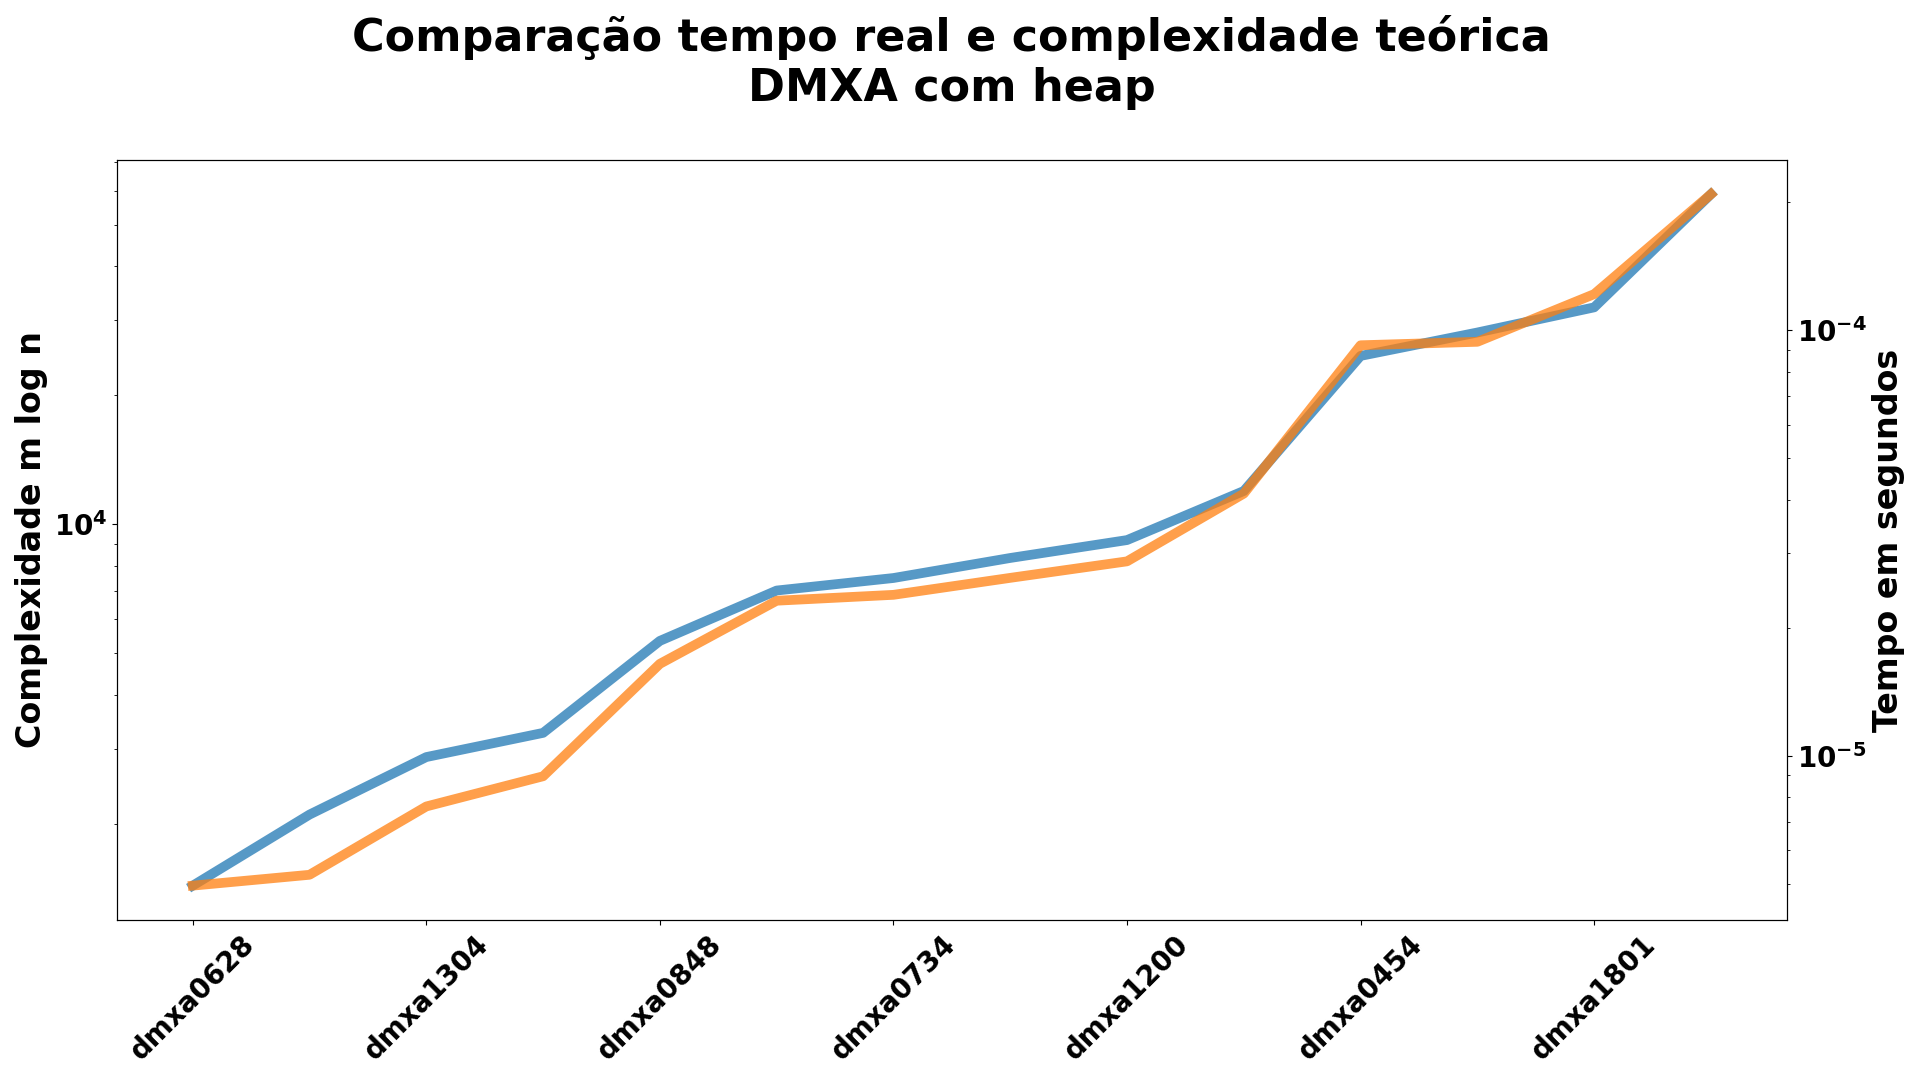
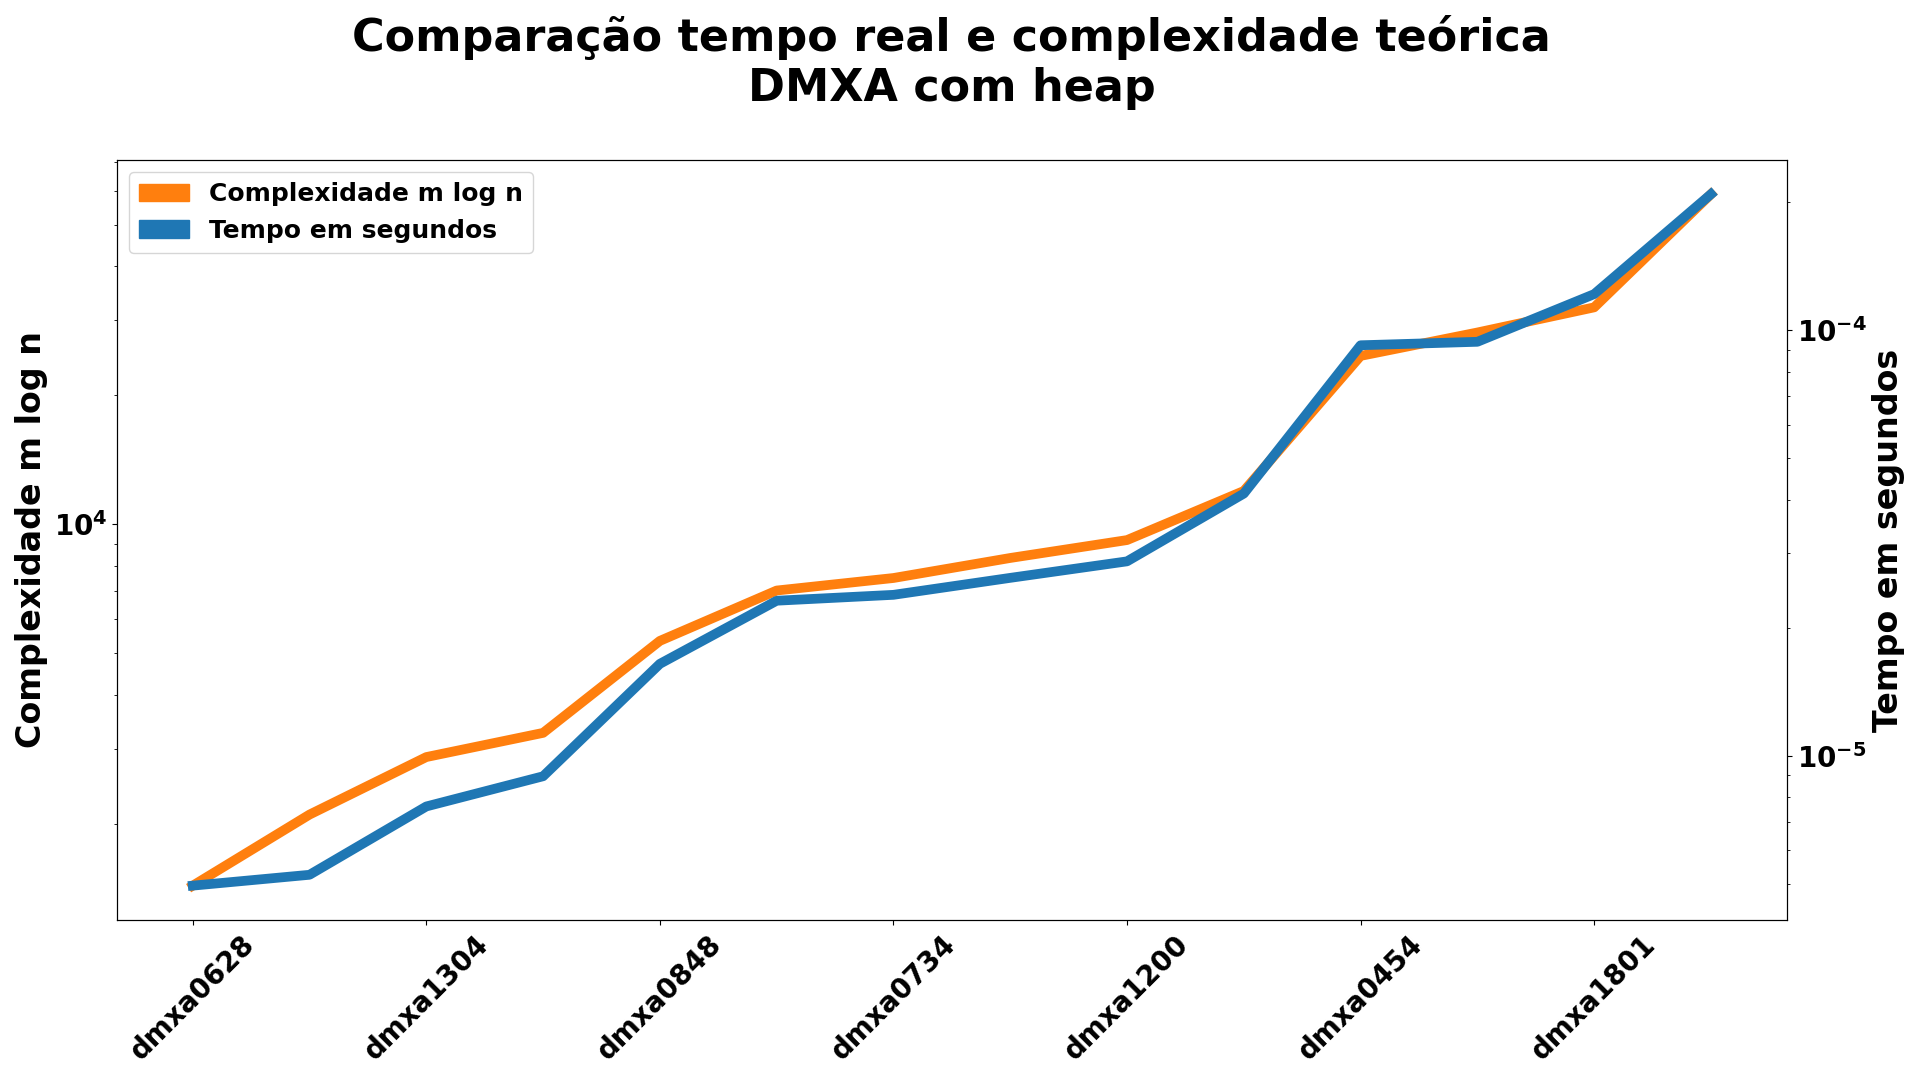
Adicionado legendas

diff --git a/plot/main.py b/plot/main.py
@@ -1,6 +1,7 @@
 import pandas as pd
 import matplotlib.pyplot as plt
 import math
+import matplotlib.patches as mpatches
 
 
 def load_data():
@@ -147,16 +148,22 @@ for (inst, inst_name) in [('alue', 'ALUE'), ('alut', 'ALUT'), ('dmxa', 'DMXA'), 
 
         data_df['ratio'] = data_df.expected / data_df.actual
 
-        ax = data_df.plot(figsize=(19.2, 10.8), x='inst', y='expected', logy=True, legend=False, fontsize=20,
-                          linewidth=7, alpha=0.75)
+        ax = data_df.plot(figsize=(19.2, 10.8), x='inst', y='expected', logy=True, fontsize=20,
+                          linewidth=7, color='#FF7F0E', legend=False)
         ax.set_ylabel(f'Complexidade {complexidade}', fontdict={'size': 24})
         ax.set_xlabel(None)
 
-        ax = data_df.actual.plot(x='inst', logy=True, secondary_y=True, rot=45, fontsize=20, linewidth=7, alpha=0.75)
+        ax = data_df.actual.plot(x='inst', logy=True, secondary_y=True, rot=45, fontsize=20, linewidth=7,
+                                 color='#1F77B4')
         ax.set_ylabel('Tempo em segundos', fontdict={'size': 24})
 
         plt.title(f'Comparação tempo real e complexidade teórica\n{inst_name} com {inst_type}\n',
                   fontdict={'size': 32})
+
+        plt.legend(prop={'size': 18}, handles=[
+            mpatches.Patch(color='#FF7F0E', label=f'Complexidade {complexidade}'),
+            mpatches.Patch(color='#1F77B4', label='Tempo em segundos'),
+        ])
 
         plt.tight_layout()
         plt.savefig(f'comp/{inst}_{inst_type}')
